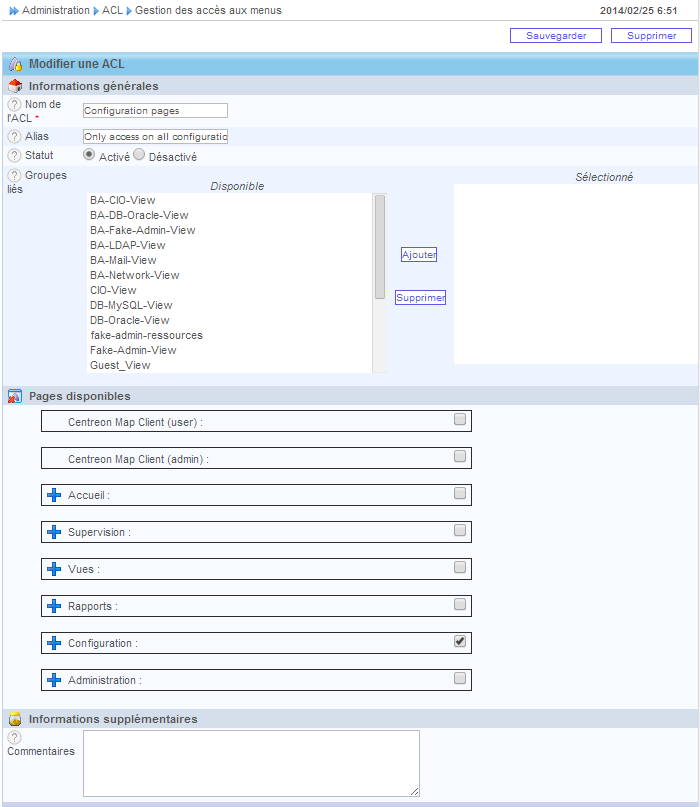
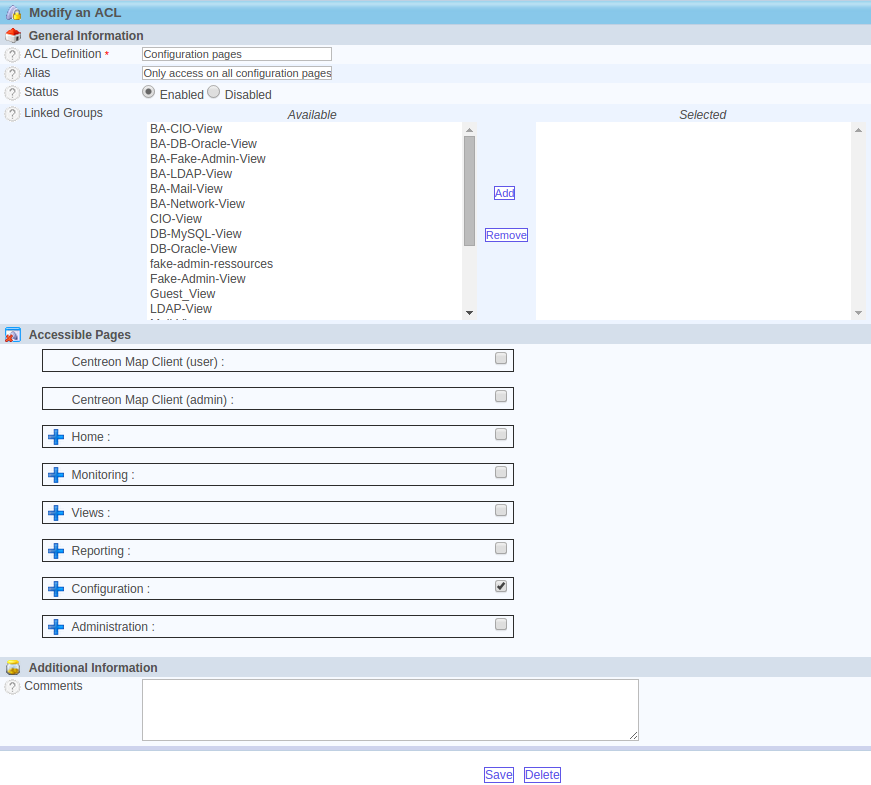
add ACL in doc

diff --git a/doc/en/guide_exploitation/02b.rst b/doc/en/guide_exploitation/02b.rst
@@ -1,0 +1,297 @@
+.. _acl:
+
+====================
+Access crontrol list
+====================
+
+Access control lists (ACL) serve to limit users access to the web interface Centreon via miscellaneous rules.
+The ACL are also used to create multiple user profiles making possible to focalise on a precise set of resources.
+
+.. note::
+   The management of access checks is a function specific to Centreon, the export of the configuration to the monitoring engine is not necessary to enable them.
+
+Access groups are groups containing the Centreon users. For each access group, it is possible to define three types of access:
+
+* Access filters to resources serve to limit access to Centreon objects (hosts, services, etc.)
+* Access filters to menus serve to limit access to Centreon menus
+* Access filters on actions serve to limit access to actions that the user can undertake on a monitoring engine or on the resources themselves (programme a downtime, stop a monitoring engine, etc.)
+
+.. note::
+   A user can belong to several access groups thus making it possible to add together all the access authorisations.
+
+The ACLs respect very strict rules:
+
+* Centreon administrators are not subject to ACLs (property of the contact).
+* A user (non-administrator) Who does not belong to any access group has no right on the monitoring platform (screen empty after logging in).
+* The ACLs are recalculated every minute; this why it is sometimes necessary to wait a few seconds before seeing the change applied to the profile.
+
+.. note::
+    The addition of additional modules to Centreon sometimes makes it possible to add additional filters to the access groups. E.g.: Centreon modules BI, BAM and MAP can be subjected to filters.
+
+*************
+Access groups
+*************
+
+To add an access group:
+
+#. Go into the menu: **Administration** ==> **ACL**
+#. Click on **Add**
+
+.. image :: /images/guide_exploitation/baccess_group.png
+   :align: center
+
+
+General information
+===================
+
+* The **Group Name** and **Alias** fields define the name and the alias of the group
+* The **Linked Contacts** list can be used to link contacts to the access group
+* The **Linked Contact Groups** list can be used to link groups of contacts to the access group
+* The **Status** field can be used to enable or disable the access group
+
+.. note::
+    the contact group can be groups coming from the LDAP directory connected to the Centreon interface.
+
+Authorizations information
+==========================
+
+The lists presented in this tab can be used to link the various types of access already created to the access group.
+
+****************
+Resources Access
+****************
+
+The access filters for the resources serve to limit the viewing of objects (hosts, host groups, services and service groups) to a user profile.
+
+To add ressources access filter:
+
+#. Go into the menu: **Administration** ==> **ACL**
+#. In the left menu, click on **Resources Access**
+#. Click on **Add**
+
+.. image :: /images/guide_exploitation/bressources_filter.png
+   :align: center
+
+.. note::
+   Once the filters on the resources are set, you can to view the result via the menu: **Check User View**, next to the add option.
+
+General information
+===================
+
+* The **Access list name** and **Description** fields define the name and the description of the filter
+* The **Linked groups** list can be used to link access groups to this resource filter
+* The **Status** and **Comments** fields serve to enable / disable the filter and to comment on it
+
+Hosts Resources
+===============
+
+The **Hosts Resources** tab enables us to add:
+
+* Hosts
+* Host groups
+
+If the **Include all hosts** or **Include all hostgroups** box is checked, all newly created objects will be added to the filter automatically.
+
+.. note::
+   It is possible to explicitly exclude hosts from the filter (useful in cases where only 1 or 2 hosts must not be part of the filter) if the **Include all hosts** or **Include all hostgroups** options are checked.
+
+Services Resources
+==================
+
+The **Services Resources** tab can be used to add service groups to the filter.
+
+Meta Services
+=============
+
+The Meta-Services tab can be used to add meta-services to the filter.
+
+Filters
+=======
+
+* The **Poller Filter** list can be used to select the hosts according to monitoring poller (if none is selected all the pollers are taken into account)
+* The **Host Category Filter** list can be used to filter the hosts by category
+* The **Service Category Filter** list can be used to filter the services by category
+
+.. warning::
+   the filters by poller or by category of object are inclusion filters (UNION). Only the objects belonging to these filters in addition to groups of objects (hosts and services) will be visible.
+
+============
+Menus Access
+============
+
+The access filters to the menu serve to limiter the access to various menus of the Centreon interface. 
+The menus are ranked as follows:
+
+* Level 1 menus (Home, Monitoring, Views, etc.)
+* Level 2 menus (Monitoring ==> Hosts, Moitoring ==> Services, etc.)
+* Level 3 context menus (Monitoring ==> Services ==> by hosts / details)
+* Level 4  context menus (Monitoring ==> Services ==> by hosts / details ==> Problems)
+
+.. note::
+   to access to a level of menu ‘n-1’, the user must have access to the menu of level ‘n’ otherwise he will not be able to view the menu via the interface. If this is not the case the user will have to access directly to the page concerned via a direct link (autologin, etc).
+
+To add an access filter to the menus:
+
+#. Go into the menu: **Administration** ==> **ACL**
+#. In the left menu, click on **Menus Access**
+#. Click on **Add**
+
+.. image :: /images/guide_exploitation/bmenu_filter.png
+   :align: center
+
+* The **ACL Definition** and **Alias** fields define the name and the alias of the access filter
+* The **Status** field is used to enable or disable the filter
+* The **Linked Groups** list can be used to associate an access group to the filter
+* The **Accessible Pages** can be used to associate menus to the filter (The parent menu should be checked to be able to access the child menu)
+* The **Comments** field gives indications on the filter
+
+.. warning::
+   On the access definition to the **Configuration** ==> **Hosts** and **Configuration** ==> **Service** menus, it is possible to give read only or read / write access to various objects.
+
+.. note::
+   At each addition of a new Centreon module possessing a web interface accessible via a new menu, it should be added in the access groups so that the users can access.
+
+**************
+Actions Access
+**************
+
+Filters on actions enable us to limit access to actions that can be performed on resources (hosts and services) and on monitoring engines (stopping notifications, restarting the scheduler, etc.).
+
+To add an access filter to the actions:
+
+#. Go into the menu: **Administration** ==> **ACL**
+#. In the left menu, click on **Actions Access**
+#. Click on **Add**
+
+.. image :: /images/guide_exploitation/baction_filter.png
+   :align: center
+
+* The **Action Name** and **Description** fields contain the name of the filter and its description
+* The **Linked Groups** list serves to associate an access group to the filter
+
+The table below describes the general access functionalities:
+
++----------------------------------------+-----------------------------------------------------------------------+
+|   Field                                |   Associated actions                                                  |
++========================================+=======================================================================+
+| Display Top Counter                    | The monitoring overview will be displayed at the top of all pages     |
+|                                        |                                                                       |
++----------------------------------------+-----------------------------------------------------------------------+
+| Display Top Counter pollers statistics | The monitoring poller status overview will be displayed               |
+|                                        | at the top of all pages.                                              |
++----------------------------------------+-----------------------------------------------------------------------+
+| Display Poller Listing                 | The poller filter will be available to users                          |
+                                         | in the monitoring consoles                                            |
++----------------------------------------+-----------------------------------------------------------------------+
+
+The table below describes all the actions that can be authorised on the scheduler:
+
++----------------------------------------+-----------------------------------------------------------------------+
+|   Field                                |   Associated actions                                                  |
++========================================+=======================================================================+
+| Shutdown Monitoring Engine             | Allows users to stop the monitoring systems                           |
++----------------------------------------+-----------------------------------------------------------------------+
+| Restart Monitoring Engine              | Allows users to restart the monitoring systems                        |
++----------------------------------------+-----------------------------------------------------------------------+
+| Enable/Disable notifications           | Allows users to enable or disable notifications                       |
++----------------------------------------+-----------------------------------------------------------------------+
+| Enable/Disable service checks          | Allows users to enable or disable service checks                      |
++----------------------------------------+-----------------------------------------------------------------------+
+| Enable/Disable passive service checks  | Allows users to enable or disable passive service checks              |
++----------------------------------------+-----------------------------------------------------------------------+
+| Enable/Disable passive host checks     | Allows users to enable or disable passive host checks                 |
++----------------------------------------+-----------------------------------------------------------------------+
+| Enable/Disable Event Handlers          | Allows users to enable or disable event handlers                      |
++----------------------------------------+-----------------------------------------------------------------------+
+| Enable/Disable Flap Detection          | Allows users to enable or disable flap detection                      |
++----------------------------------------+-----------------------------------------------------------------------+
+| Enable/Disable Obsessive service checks| Allows users to enable or disable obsessive service checks            |
++----------------------------------------+-----------------------------------------------------------------------+
+| Enable/Disable Obsessive host checks   | Allows users to enable or disable obsessive host checks               |
++----------------------------------------+-----------------------------------------------------------------------+
+| Enable/Disable Performance Data        | Allows users to enable or disable performance data processing         |
++----------------------------------------+-----------------------------------------------------------------------+
+
+The table below describes all the actions that can be authorised on services:
+
++----------------------------------------+-----------------------------------------------------------------------+
+|   Field                                |   Associated actions                                                  |
++========================================+=======================================================================+
+| Enable/Disable Checks for a service    | Allows users to enable or disable checks of a service                 |
++----------------------------------------+-----------------------------------------------------------------------+
+| Enable/Disable Notifications           | Allows users to enable or disable notifications of a service          |
+| for a service                          |                                                                       |
++----------------------------------------+-----------------------------------------------------------------------+
+| Acknowledge a service                  | Allows users to acknowledge a service                                 |
++----------------------------------------+-----------------------------------------------------------------------+
+| Re-schedule the next check             | Allows users to re-schedule next check of a service                   |
+| for a service                          |                                                                       |
++----------------------------------------+-----------------------------------------------------------------------+
+| Re-schedule the next check             | Allows users to re-schedule next check of a service by placing        |
+| for a service (Forced)                 | its priority to the top                                               |
++----------------------------------------+-----------------------------------------------------------------------+
+| Schedule downtime for a service        | Allows users to schedule downtime on a service                        |
++----------------------------------------+-----------------------------------------------------------------------+
+| Add/Delete a comment for a service     | Allows users to add or delete a comment of a service                  |
++----------------------------------------+-----------------------------------------------------------------------+
+| Enable/Disable Event Handler           | Allows users to enable or disable the event handler                   |
+| for a service                          | processing of a service                                               |
++----------------------------------------+-----------------------------------------------------------------------+
+| Allows users to enable or disable flap | Allows users to enable or disable flap detection of a service         |
+| detection of a service                 |                                                                       |
++----------------------------------------+-----------------------------------------------------------------------+
+| Enable/Disable passive checks          | Allows users to enable or disable passive checks of a service         |
+| of a service                           |                                                                       |
++----------------------------------------+-----------------------------------------------------------------------+
+| Submit result for a service            | Allows users to submit result to a service                            |
++----------------------------------------+-----------------------------------------------------------------------+
+
+The table below describes the all the actions that can be authorised on hosts:
+
++----------------------------------------+-----------------------------------------------------------------------+
+|   Field                                |   Associated actions                                                  |
++========================================+=======================================================================+
+| Enable/Disable Checks for a host       | Allows users to enable or disable checks of a host                    |
++----------------------------------------+-----------------------------------------------------------------------+
+| Enable/Disable Notifications for a host| Allows users to enable or disable notifications of a host             |
++----------------------------------------+-----------------------------------------------------------------------+
+| Acknowledge a host                     | Allows users to acknowledge a host                                    |
++----------------------------------------+-----------------------------------------------------------------------+
+| Disaknowledge a host                   | Allows users to disacknowledge a host                                 |
++----------------------------------------+-----------------------------------------------------------------------+
+| Schedule the check for a host          | Allows users to re-schedule next check of a host                      |
++----------------------------------------+-----------------------------------------------------------------------+
+| Schedule the check for a host (Forced) | Allows users to re-schedule next check of a host                      |
+|                                        | by placing its priority to the top                                    |
++----------------------------------------+-----------------------------------------------------------------------+
+| Schedule downtime for a host           | Allows users to schedule downtime on a host                           |
++----------------------------------------+-----------------------------------------------------------------------+
+| Add/Delete a comment for a host        | Allows users to add or delete a comment of a host                     |
++----------------------------------------+-----------------------------------------------------------------------+
+| Enable/Disable Event Handler for a host| Allows users to enable or disable the event handler                   |
+|                                        | processing of a host                                                  |
++----------------------------------------+-----------------------------------------------------------------------+
+| Enable/Disable Flap Detection          | Allows users to enable or disable flap detection of a host            |
+| for a host                             |                                                                       |
++----------------------------------------+-----------------------------------------------------------------------+
+| Enable/Disable Checks services         | Allows users to enable or disable all service checks of a host        |
+| of a host                              |                                                                       |
++----------------------------------------+-----------------------------------------------------------------------+
+| Enable/Disable Notifications services  | Allows users to enable or disable service notifications of a host     |
+| of a host                              |                                                                       |
++----------------------------------------+-----------------------------------------------------------------------+
+| Submit result for a host               | Allows users to submit result to a host                               |
++----------------------------------------+-----------------------------------------------------------------------+
+
+
+* The **Status** field is used to enable or disable the filter
+
+**********
+Reload ACL
+**********
+
+It is possible of reload the ACLs manually:
+#. Go into the menu: **Administration** ==> **ACL**
+#. In the left menu, click on **Reload ACL**
+#. Select the user(s) you want to reload the ACL
+#. In the **More actions** menu, click on **Reload ACL**

diff --git a/doc/en/guide_exploitation/02a.rst b/doc/en/guide_exploitation/02a.rst
@@ -33,8 +33,8 @@ From real time monitoring
 -------------------------
 
 #. Go into the menu: **Monitoring** ==> **Hosts** (or **Services**)
-2. Select the object(s) that you want acknowledge
-3. In the menu: **More actions** click on **Hosts: Acknowledge** or on **Services: Acknowledge**
+#. Select the object(s) that you want acknowledge
+#. In the menu: **More actions** click on **Hosts: Acknowledge** or on **Services: Acknowledge**
 
 The following window appears:
 
@@ -192,14 +192,14 @@ From the detailed sheet of an object
 To:
 
 * Enable the check, click on |enabled| 
-Disable the check, click on |disabled|
+* Disable the check, click on |disabled|
 
 From real time monitoring
 -------------------------
 
 #. Go into the menu: **Monitoring** ==> **Hosts** (or **Services**)
-2. Select the object(s) on which you want to enable or disable the check
-3. In the menu: **More actions...** click on:
+#. Select the object(s) on which you want to enable or disable the check
+#. In the menu: **More actions...** click on:
 
 * **Hosts : Disable Check** or **Services: Disable Check** to stop the check on a host or a service
 * **Hosts: Enable Check** or **Services: Enable Check** to enable the check of a host or of a service
